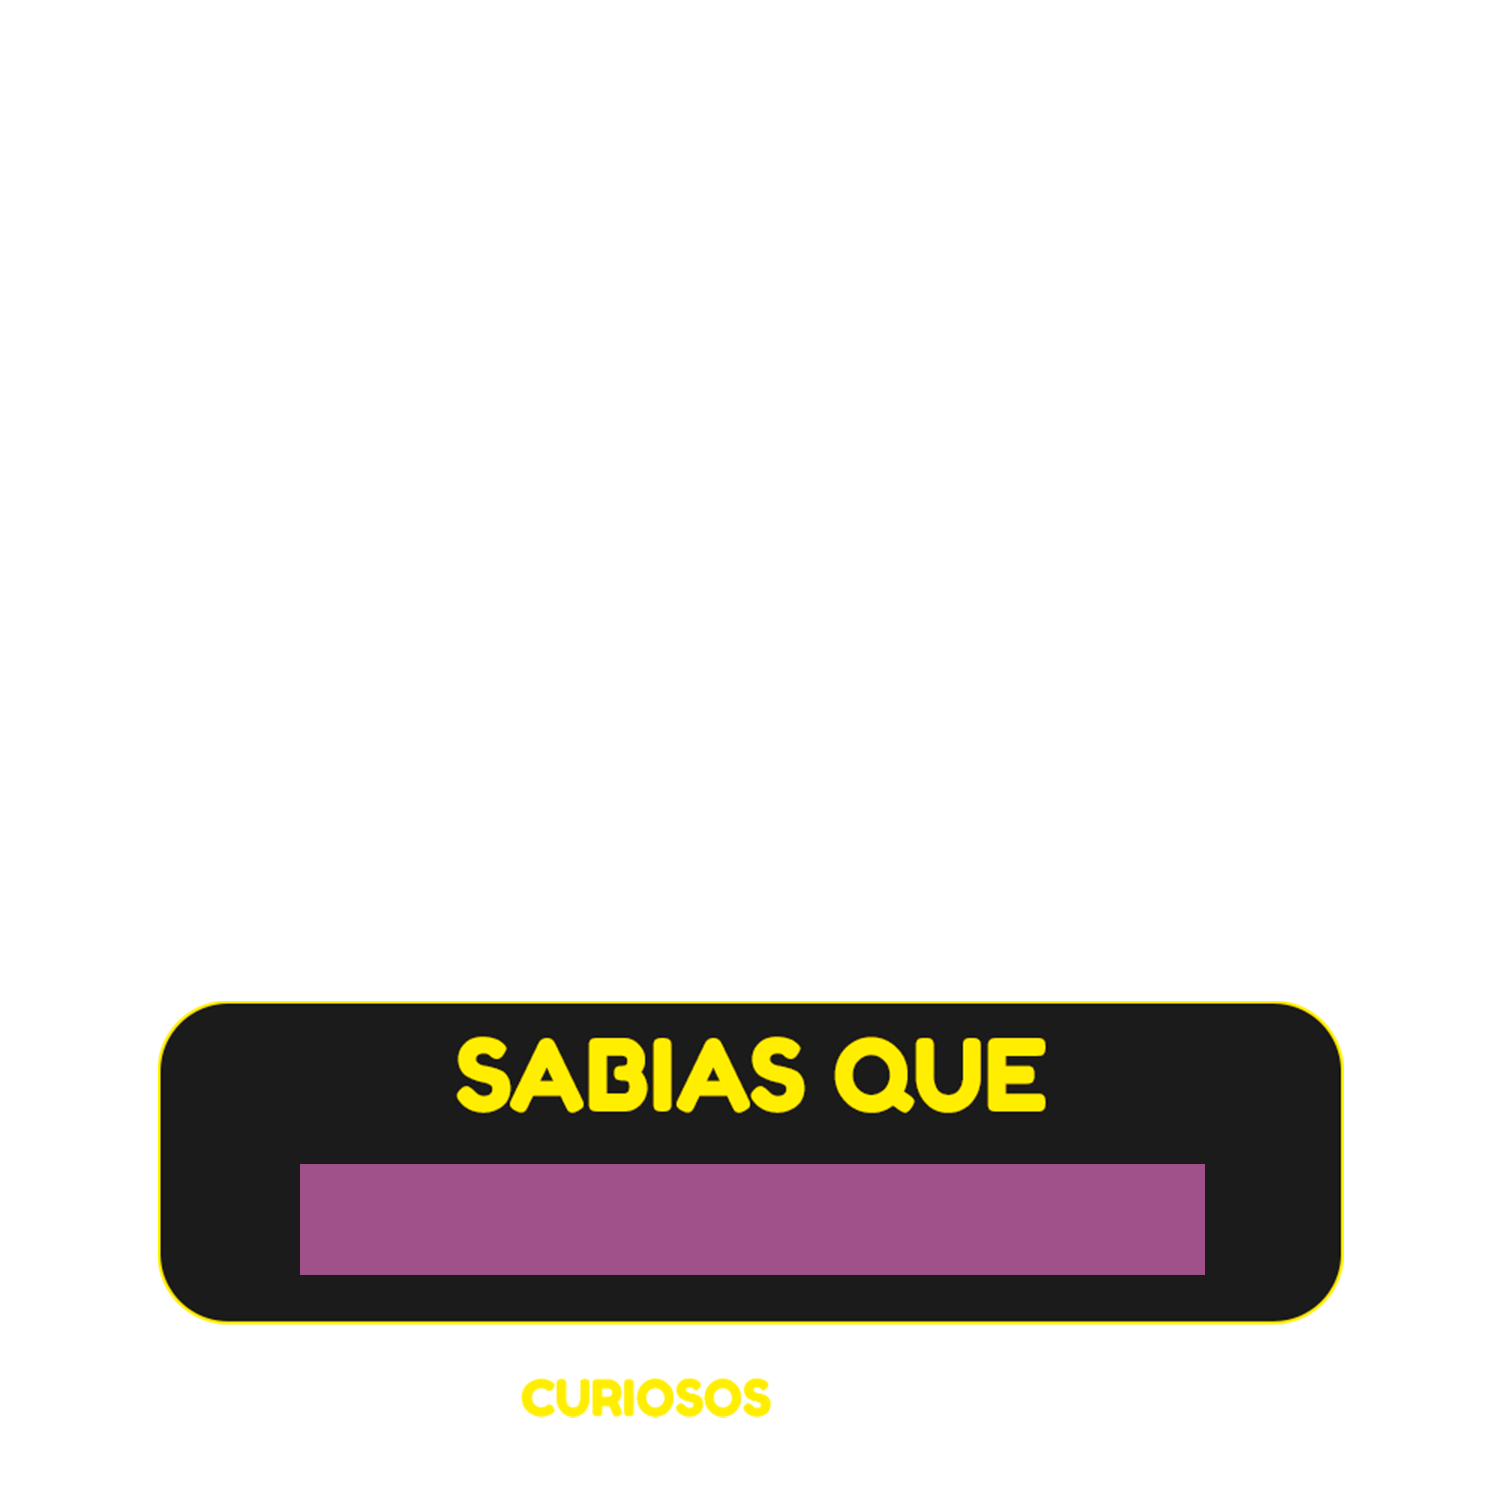
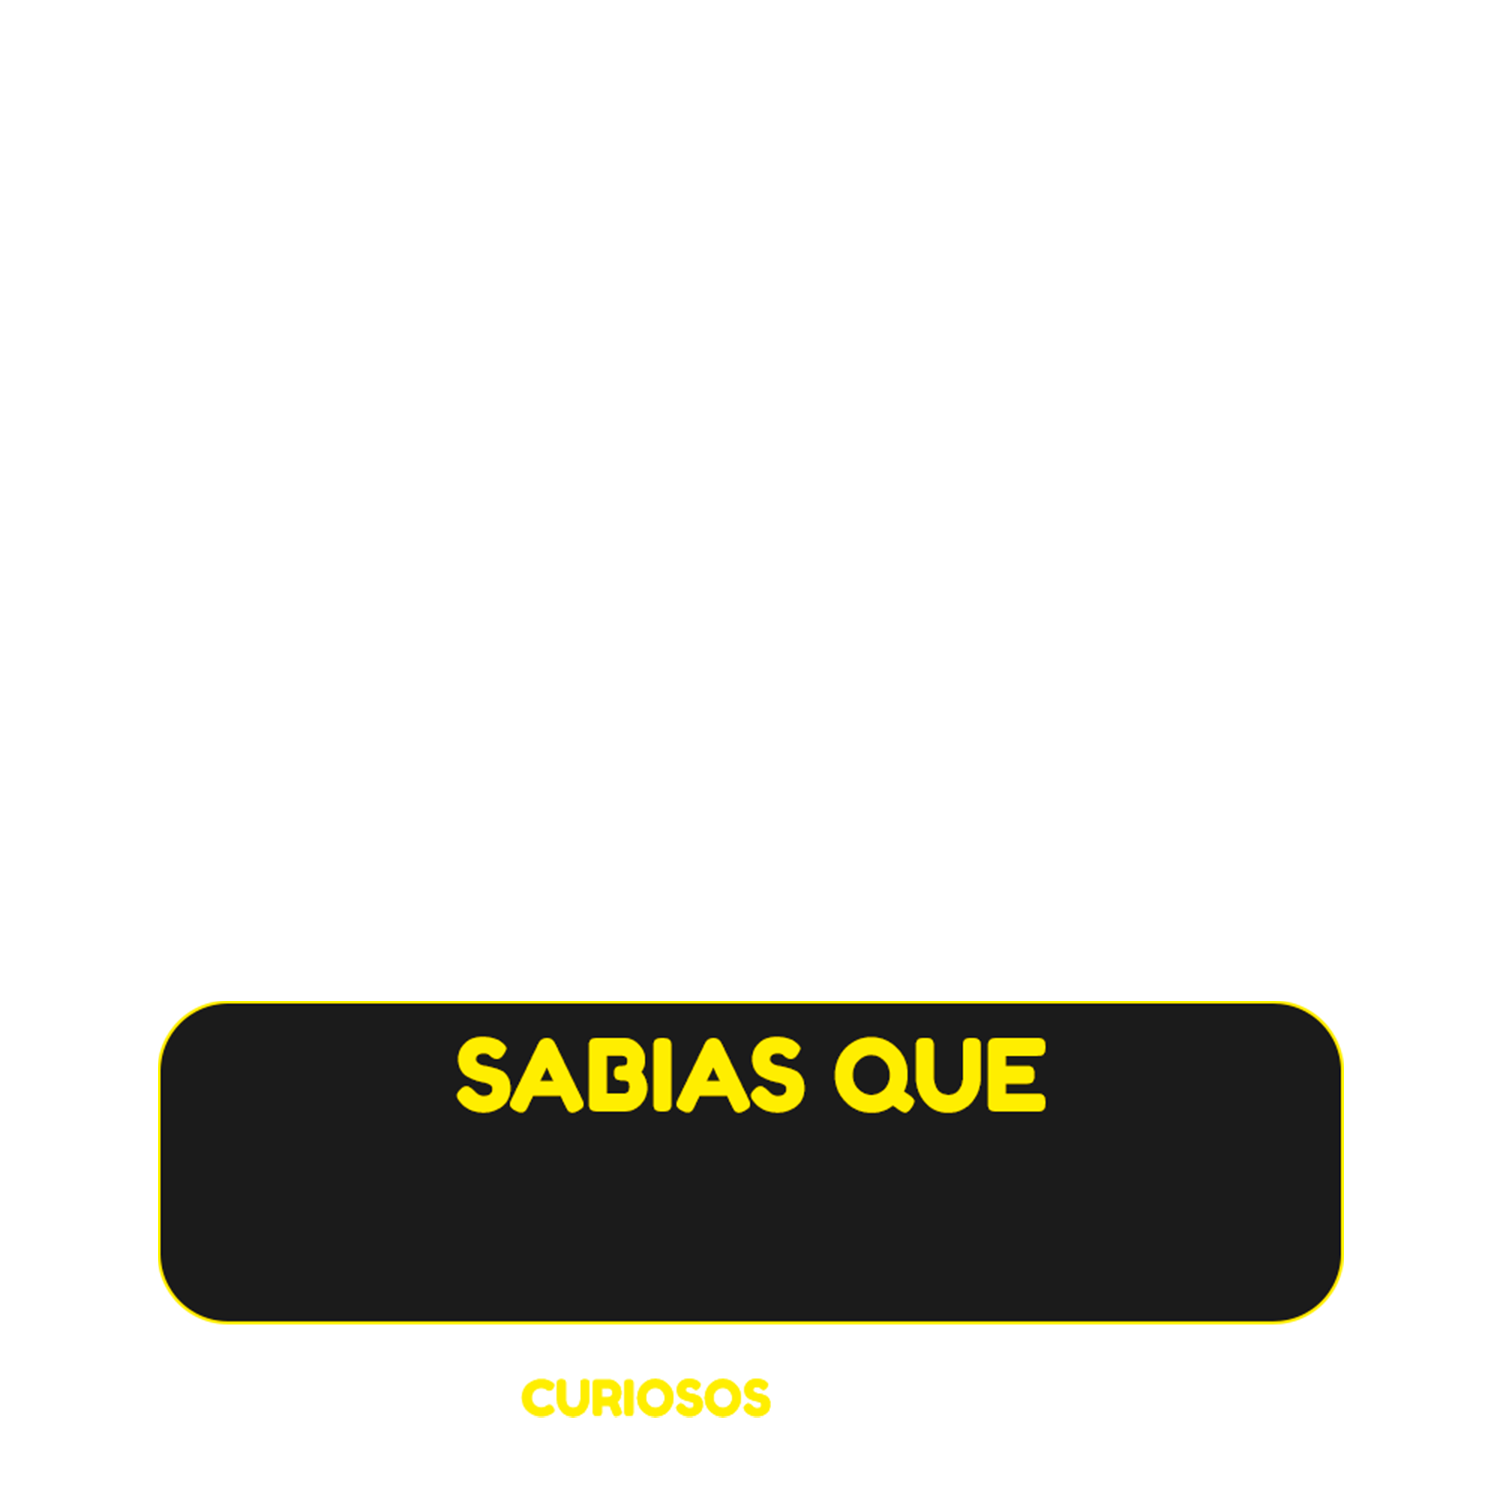
se agregaron mas plantillas hasta la 8

Changed region(s): [[0.184, 0.7667, 0.828, 0.8587]]

diff --git a/styles.css b/styles.css
@@ -312,6 +312,9 @@ body {
   line-height: 1.2em;
   text-align: left;
 }
+.plantilla-2 .description .resaltado {
+  color: #ffffff;
+}
 
 /* ---------------------------------- */
 /* 🎨 Estilos para Plantilla 3 */
@@ -344,5 +347,200 @@ body {
   /*background-color: rgba(0, 136, 18, 0.322);*/
 }
 .plantilla-3 .etiquetas {
+  display: none;
+}
+
+/* ---------------------------------- */
+/* 🆕 Estilos para Plantilla 4 */
+/* ---------------------------------- */
+.plantilla-4 .imagen-fondo-wrapper {
+  height: 100%;
+  background-color: #ffed00;
+}
+.plantilla-4 #imagen-fondo {
+  background-size: cover;
+  background-position: center;
+}
+
+.plantilla-4 .etiquetas img {
+  width: 272px;
+  margin-left: 2px;
+  margin-top: 12px;
+  object-fit: contain;
+}
+
+.plantilla-4 .degradado-imagen {
+  display: none;
+}
+.plantilla-4 .texto-post {
+  top: 79%;
+  left: 50%;
+  transform: translate(-50%, -50%);
+  height: 160px;
+  display: flex;
+  align-items: center;
+  justify-content: center;
+  text-align: center;
+}
+.plantilla-4 .description {
+  font-size: 44px;
+  line-height: 1.4em;
+  font-weight: 500;
+  width: 60.2%;
+}
+.plantilla-4 .etiquetas {
+  display: none;
+}
+
+/* ---------------------------------- */
+/* 🆕 Estilos para Plantilla 5 */
+/* ---------------------------------- */
+.plantilla-5 .imagen-fondo-wrapper {
+  height: 100%;
+  background-color: #ffed00;
+}
+.plantilla-5 #imagen-fondo {
+  background-size: cover;
+  background-position: center;
+}
+
+.plantilla-5 .etiquetas img {
+  width: 272px;
+  margin-left: 2px;
+  margin-top: 12px;
+  object-fit: contain;
+}
+
+.plantilla-5 .degradado-imagen {
+  display: none;
+}
+.plantilla-5 .texto-post {
+  top: 81.2%;
+  left: 50%;
+  transform: translate(-50%, -50%);
+  height: 113px;
+  display: flex;
+  align-items: center;
+  justify-content: center;
+  text-align: center;
+}
+.plantilla-5 .description {
+  font-size: 44px;
+  line-height: 1.4em;
+  font-weight: 500;
+  width: 60.2%;
+}
+.plantilla-5 .etiquetas {
+  display: none;
+}
+
+/* ---------------------------------- */
+/* 🎨 Estilos para Plantilla 6 */
+/* ---------------------------------- */
+.plantilla-6 .imagen-fondo-wrapper {
+  height: 65%;
+  background-color: #00b000;
+}
+.plantilla-6 #imagen-fondo {
+  background-size: contain;
+}
+.plantilla-6 .degradado-imagen {
+  position: absolute;
+  bottom: 0;
+  width: 100%;
+  height: 50%;
+  pointer-events: none;
+  z-index: 2;
+  background: linear-gradient(to bottom, transparent, #000);
+}
+.plantilla-6 .texto-post {
+  top: 77%;
+  left: 50%;
+  transform: translate(-50%, -50%);
+  display: flex;
+  align-items: center;
+  justify-content: center;
+  text-align: center;
+}
+.plantilla-6 .description {
+  font-size: 44px;
+  line-height: 1.4em;
+  font-weight: 500;
+  width: 72%;
+}
+.plantilla-6 .description .resaltado {
+  color: #00b000;
+}
+.plantilla-6 .etiquetas {
+  display: none;
+}
+
+/* ---------------------------------- */
+/* 🎨 Estilos para Plantilla 7 */
+/* ---------------------------------- */
+.plantilla-7 .imagen-fondo-wrapper {
+  height: 65%;
+  background-color: #ff0000;
+}
+.plantilla-7 #imagen-fondo {
+  background-size: contain;
+}
+.plantilla-7 .degradado-imagen {
+  position: absolute;
+  bottom: 0;
+  width: 100%;
+  height: 50%;
+  pointer-events: none;
+  z-index: 2;
+  background: linear-gradient(to bottom, transparent, #000);
+}
+.plantilla-7 .texto-post {
+  top: 77%;
+  left: 50%;
+  transform: translate(-50%, -50%);
+  display: flex;
+  align-items: center;
+  justify-content: center;
+  text-align: center;
+}
+.plantilla-7 .description {
+  font-size: 44px;
+  line-height: 1.4em;
+  font-weight: 500;
+  width: 72%;
+}
+.plantilla-7 .description .resaltado {
+  color: #ff0000;
+}
+.plantilla-7 .etiquetas {
+  display: none;
+}
+
+/* ---------------------------------- */
+/* 🆕 Estilos para Plantilla 8 */
+/* ---------------------------------- */
+.plantilla-8 .imagen-fondo-wrapper {
+  height: 100%;
+  background-color: #ffed00;
+}
+.plantilla-8 #imagen-fondo {
+  background-size: cover;
+  background-position: center;
+}
+
+.plantilla-8 .etiquetas img {
+  display: none;
+}
+
+.plantilla-8 .degradado-imagen {
+  display: none;
+}
+.plantilla-8 .texto-post {
+  display: none;
+}
+.plantilla-8 .description {
+  display: none;
+}
+.plantilla-8 .description .resaltado {
   display: none;
 }

diff --git a/script.js b/script.js
@@ -47,7 +47,7 @@ function cambiarPlantilla() {
   const imagenPerzonalizada = document.querySelector(".imagen__Perzonalizada");
 
   // Cambiar clase de plantilla
-  preview.classList.remove("plantilla-1", "plantilla-2", "plantilla-3");
+  preview.classList.remove("plantilla-1", "plantilla-2", "plantilla-3", "plantilla-4", "plantilla-5", "plantilla-6", "plantilla-7", "plantilla-8");
   preview.classList.add(clasePlantilla);
 
   // Reiniciar estilos de imagen
@@ -145,6 +145,26 @@ function descargarImagen() {
     } else if (body.classList.contains("plantilla-3")) {
       descripcionClonada.style.fontSize = "53px";
       descripcionClonada.style.lineHeight = "1.2";
+    }
+    else if (body.classList.contains("plantilla-4")) {
+      descripcionClonada.style.fontSize = "44px";
+      descripcionClonada.style.lineHeight = "1.4";
+    }
+    else if (body.classList.contains("plantilla-5")) {
+      descripcionClonada.style.fontSize = "44px";
+      descripcionClonada.style.lineHeight = "1.4";
+    }
+    else if (body.classList.contains("plantilla-6")) {
+      descripcionClonada.style.fontSize = "44px";
+      descripcionClonada.style.lineHeight = "1.4";
+    }
+    else if (body.classList.contains("plantilla-7")) {
+      descripcionClonada.style.fontSize = "44px";
+      descripcionClonada.style.lineHeight = "1.4";
+    }
+    else if (body.classList.contains("plantilla-8")) {
+      descripcionClonada.style.fontSize = "";
+      descripcionClonada.style.lineHeight = "";
     }
   }
 

diff --git a/index.html b/index.html
@@ -31,6 +31,11 @@
         <option value="plantillas/DatosCuriosos2025.png" data-clase="plantilla-1">Plantilla 1 - Curiosidades</option>
         <option value="plantillas/CasosNoticias2025.png" data-clase="plantilla-2">Plantilla 2 - Casos y Noticias</option>
         <option value="plantillas/HoraDeJugar2025.png" data-clase="plantilla-3">Plantilla 3 - Hora de Jugar preguntas</option>
+        <option value="plantillas/DatosCuriososEspecialUno2025.png" data-clase="plantilla-4">Plantilla 4 - Curiosidades Especial Uno</option>
+        <option value="plantillas/DatosCuriososEspecialDos2025.png" data-clase="plantilla-5">Plantilla 5 - Curiosidades Especial Dos</option>
+        <option value="plantillas/MasMisterio2025.png" data-clase="plantilla-6">Plantilla 6 - Mas Misterio</option>
+        <option value="plantillas/MasTerror2025.png" data-clase="plantilla-7">Plantilla 7 - Mas Terror</option>
+        <option value="plantillas/ImagenMarcaDeAgua2025.png" data-clase="plantilla-8">Plantilla 8 - Imagen Con Marca De Agua</option>
       </select>
 
 
